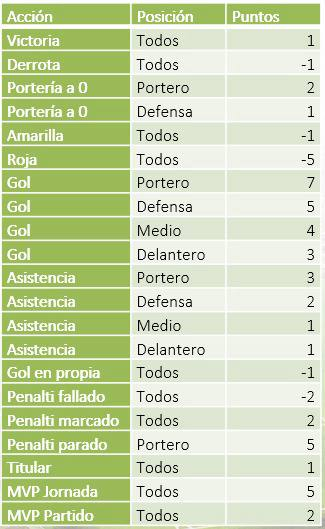
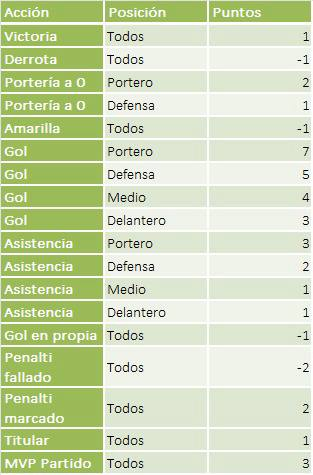
(web): update static image for custom scrore

diff --git a/web/README.md b/web/README.md
@@ -1,10 +1,17 @@
 ## 🏠 Entorno Local (Scraper)
 ### 1. Instalación de Dependencias
 ```bash
-pip3 install Flask --break-system-packages
-pip3 install python-dateutil --break-system-packages
-pip3 install pytz --break-system-packages
+# Crea un entorno virtual (solo la primera vez)
+python3 -m venv venv
 
+# Activa el entorno (en macOS/Linux)
+source venv/bin/activate
+
+# En Windows usa: venv\Scripts\activate
+```
+
+```bash
+pip3 install -r requirements.txt
 ```
 
 ### 2. Ejecución
